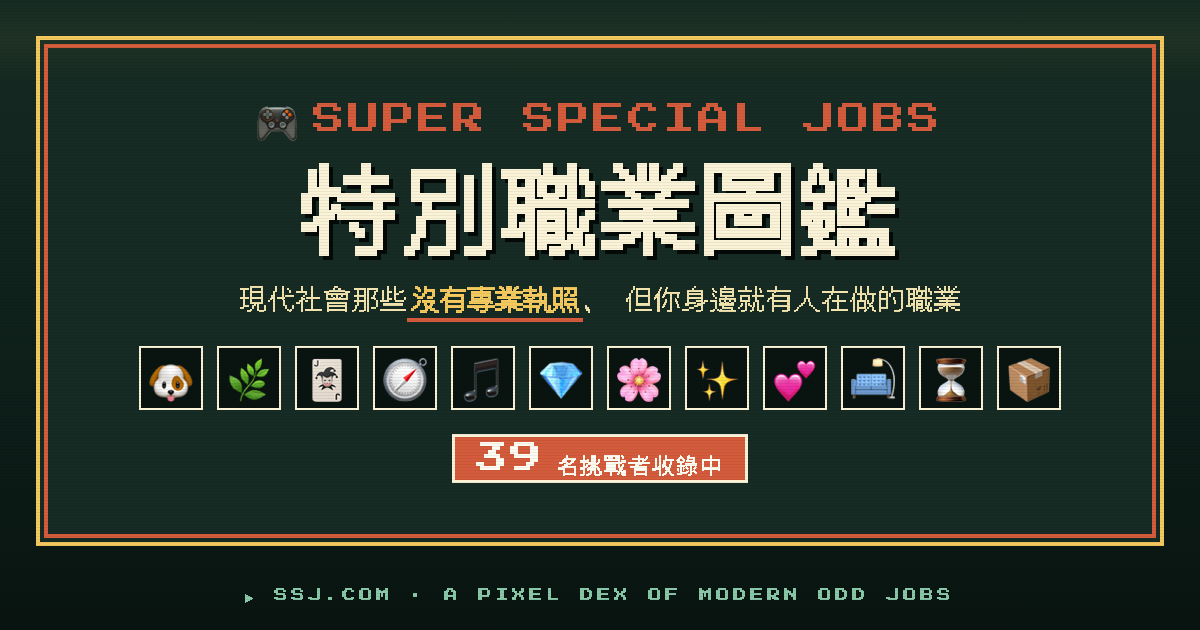
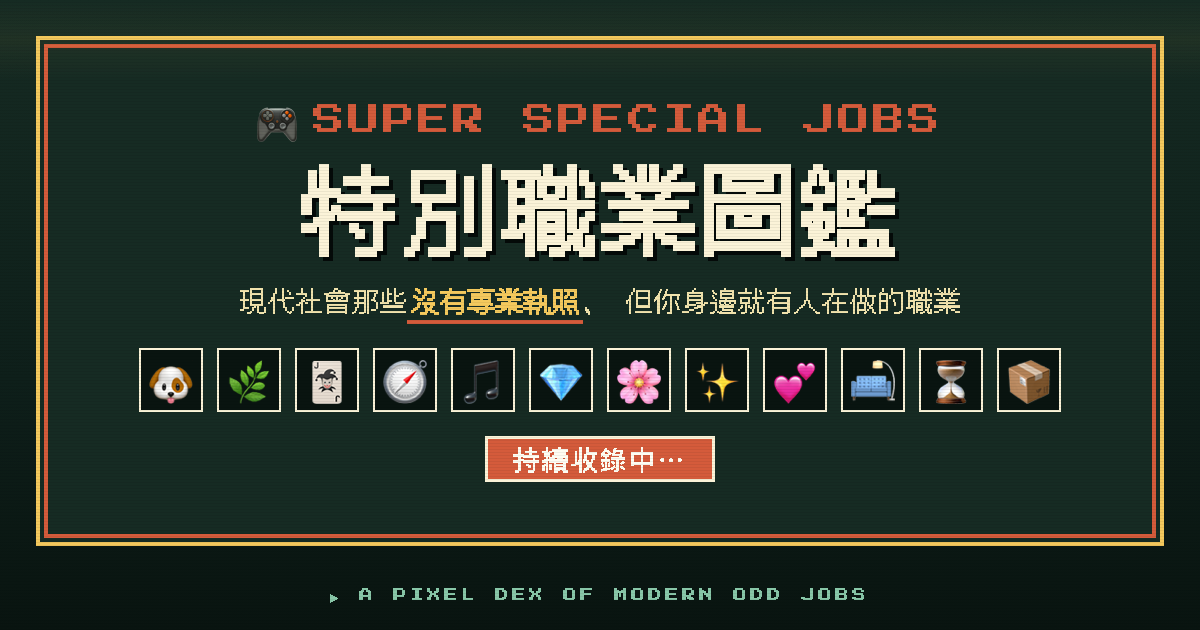
refactor(og): remove job count from home OG so it doesn't need rebuilds
之前 home.png 把「39 名挑戰者收錄中」這個數字烘進像素裡，
每加一個職業就要重生這張圖。

改成「持續收錄中⋯」靜態文案後，home.png 跟其他 job OG 一樣：
資料變動只影響該筆 OG，home.png 從此不必再 rebuild。

順便確認：git diff 顯示只有 home.png 變了，其他 39 張 job OG
重生後 byte-identical，git 不會列入差異。

diff --git a/resources/js/components/pages/og/OgHome.vue b/resources/js/components/pages/og/OgHome.vue
@@ -14,30 +14,20 @@
                 <div class="og-emoji-row">
                     <span v-for="(e, i) in emojis" :key="i" class="og-emoji">{{ e }}</span>
                 </div>
-                <div class="og-count">
-                    <span class="og-count-num">{{ totalJobs }}</span>
-                    <span class="og-count-text">名挑戰者收錄中</span>
-                </div>
+                <div class="og-stamp">持續收錄中⋯</div>
             </div>
         </div>
-        <div class="og-footer">▶ SSJ.COM · A PIXEL DEX OF MODERN ODD JOBS</div>
+        <div class="og-footer">▶ A PIXEL DEX OF MODERN ODD JOBS</div>
     </div>
 </template>
 
 <script>
-import {jobs} from 'data/jobs';
-
 export default {
     name: 'OgHome',
     data() {
         return {
             emojis: ['🐶', '🌿', '🃏', '🧭', '🎵', '💎', '🌸', '✨', '💕', '🛋', '⏳', '📦'],
         };
-    },
-    computed: {
-        totalJobs() {
-            return jobs.length;
-        },
     },
 };
 </script>
@@ -142,24 +132,15 @@ export default {
     line-height: 1;
 }
 
-.og-count {
-    display: inline-flex;
-    align-items: baseline;
-    gap: 12px;
-    padding: 8px 24px;
+.og-stamp {
+    display: inline-block;
+    padding: 10px 28px;
     background: #d45b3b;
     box-shadow: inset 0 0 0 3px #fbf3d8;
     color: #fffdf2;
-}
-.og-count-num {
-    font-family: 'Press Start 2P', 'DotGothic16', monospace;
-    font-size: 32px;
-    letter-spacing: 2px;
-}
-.og-count-text {
-    font-size: 22px;
+    font-size: 26px;
     font-weight: 700;
-    letter-spacing: 2px;
+    letter-spacing: 3px;
 }
 
 .og-footer {
